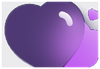
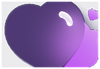
练琴浅色主题玻璃爱心去底 + 学生入班 ID 匹配加固 (1.5.64/51)
- 浅色/深色两套爱心贴图：浅色从蓝湖浅色稿重抽淡紫玻璃心，去掉深紫矩形底痕迹
- 入班接口支持 device_id / 唯一尾号匹配，老师账号缺失时自动建号；客户端提示更清晰
- getDeviceId 兜底生成时立即持久化，避免复制出去的 ID 与下次启动不一致

diff --git a/src/screens/ClassManageScreen.js b/src/screens/ClassManageScreen.js
@@ -139,7 +139,7 @@ const ClassManageScreen = ({navigation}) => {
         name: nm,
         studentId: sid ? sid.slice(-8) : '—',
         fullId: sid,
-        canBind: sid.length >= 12, // 有完整 ID 才能真正入班
+        canBind: sid.length >= 8, // ≥8 位即可尝试入班（后端支持唯一尾号匹配）
         weekMinutes: 0,
         monthMinutes: 0,
         totalMinutes: 0,
@@ -147,7 +147,7 @@ const ClassManageScreen = ({navigation}) => {
         isVip: false,
         pending: true, // 未入班：显示「待入班」，练习数据入班后才有
       });
-      if (sid.length >= 12) rebindIds.push(sid);
+      if (sid.length >= 8) rebindIds.push(sid);
     });
 
     // 去重：同一个学生（服务端 user_id / 录入学号 / 姓名 尾号双向匹配）只保留一条，
@@ -191,10 +191,10 @@ const ClassManageScreen = ({navigation}) => {
   // 手动把「待入班」的学生加入正式班级（点一下学生卡片即可）。
   const joinClass = async item => {
     const full = (item.fullId || '').trim();
-    if (full.length < 12) {
+    if (full.length < 8) {
       Alert.alert(
         '无法入班',
-        '该学生还没有填写完整 ID。请让学生在「我的」页复制完整 ID，老师在「学生信息录入」里补全学号后再入班。',
+        '该学生还没有填写 ID。请让学生在「我的」页复制完整 ID，老师在「学生信息录入」里补全学号后再入班。',
       );
       return;
     }
@@ -207,8 +207,11 @@ const ClassManageScreen = ({navigation}) => {
         load(); // 刷新，拿到练习数据
         return;
       }
-      if (r && r.error === 'not_found') {
-        Alert.alert('入班失败', '该 ID 在服务端未找到，请确认学生已打开过 App 并复制了正确的完整 ID。');
+      if (r && (r.error === 'student_not_found' || r.error === 'not_found')) {
+        Alert.alert(
+          '入班失败',
+          '服务端找不到这个学生 ID。请让学生打开 App →「我的」→ 复制完整 ID，老师在「学生信息录入」里补全后再点加入。',
+        );
         return;
       }
       Alert.alert('入班失败', '请稍后重试。');

diff --git a/src/screens/StudentEntryScreen.js b/src/screens/StudentEntryScreen.js
@@ -52,8 +52,8 @@ const StudentEntryScreen = ({navigation}) => {
     });
     setStudents(next);
     resetForm();
-    // 学号填了完整学生 ID（≥12 位）时，顺带在服务端把该学生绑到本老师名下（入班）。
-    if (sid.length >= 12) {
+    // 学号填了足够长的学生 ID（≥8，支持尾号）时，顺带在服务端把该学生绑到本老师名下（入班）。
+    if (sid.length >= 8) {
       try {
         const tid = getDeviceId();
         await registerAccount(tid, 'teacher');
@@ -62,8 +62,11 @@ const StudentEntryScreen = ({navigation}) => {
           Alert.alert('已保存并入班', '学生已绑定到你的班级，班级管理里可看到他的练习数据。');
           return;
         }
-        if (r && r.error === 'not_found') {
-          Alert.alert('已保存', '学生信息已保存（该 ID 在服务端未找到，入班未成功：请确认学生已打开过 App 并复制了正确的完整 ID）。');
+        if (r && (r.error === 'student_not_found' || r.error === 'not_found')) {
+          Alert.alert(
+            '已保存',
+            '学生信息已保存到本机，但入班未成功：服务端找不到这个学生 ID。\n\n请让学生打开 App →「我的」→ 复制完整 ID，再粘贴到「学号」里保存一次。',
+          );
           return;
         }
       } catch (e) {

diff --git a/src/assets/images.js b/src/assets/images.js
@@ -63,7 +63,10 @@ export const Images = {
   sparkleDark: require('./img/ic_bard_sparkle_dark.png'),
   // 练琴：「选择您的模型」小兔子图标 + AI陪练模式玻璃爱心（1:1 蓝湖）
   modelRabbit: require('./img/ic_model_rabbit.png'),
-  companionHeart: require('./img/ic_companion_heart.png'),
+  // 练琴 AI陪练玻璃爱心：浅色/深色两套（浅色稿为淡紫玻璃，深色稿为深紫；避免浅色主题出现深紫矩形底）
+  companionHeartLight: require('./img/ic_companion_heart_light.png'),
+  companionHeartDark: require('./img/ic_companion_heart_dark.png'),
+  companionHeart: require('./img/ic_companion_heart_dark.png'), // 兼容旧引用
   // 班级管理：学生列表紫色学士帽图标（1:1 蓝湖）
   studentListCap: require('./img/ic_student_list_cap.png'),
   // 练琴大字水印（1:1 蓝湖，Arial Black + 精确渐变）：

diff --git a/src/services/device.js b/src/services/device.js
@@ -40,8 +40,16 @@ export async function initDeviceId() {
   return cachedId;
 }
 
-/** 取当前设备 ID；若 init 尚未完成，用一次性 UUID 兜底（应尽量在 init 之后调用）。 */
+/**
+ * 取当前设备 ID。
+ * 若 init 尚未完成被迫生成兜底值，立刻异步持久化，避免「复制出去的 ID」和下次启动不一致，
+ * 导致老师入班时服务端找不到学生。
+ */
 export function getDeviceId() {
-  if (!cachedId) cachedId = uuidv4();
+  if (!cachedId) {
+    cachedId = uuidv4();
+    // fire-and-forget 持久化；initDeviceId 之后会以缓存为准，不会再覆盖。
+    setItem(K_DEVICE_ID, cachedId).catch(() => {});
+  }
   return cachedId;
 }

diff --git a/src/screens/PracticeScreen.js b/src/screens/PracticeScreen.js
@@ -120,7 +120,11 @@ const PracticeScreen = ({navigation}) => {
                 resizeMode="contain"
                 pointerEvents="none"
               />
-              <Image source={Images.companionHeart} style={styles.chatHeart} resizeMode="contain" />
+              <Image
+                source={dark ? Images.companionHeartDark : Images.companionHeartLight}
+                style={styles.chatHeart}
+                resizeMode="contain"
+              />
               <Text style={styles.companionTitle}>AI陪练模式</Text>
               <Text style={styles.companionSub}>AI分身语音陪伴 + 对话 · 会员专属</Text>
             </TouchableOpacity>
